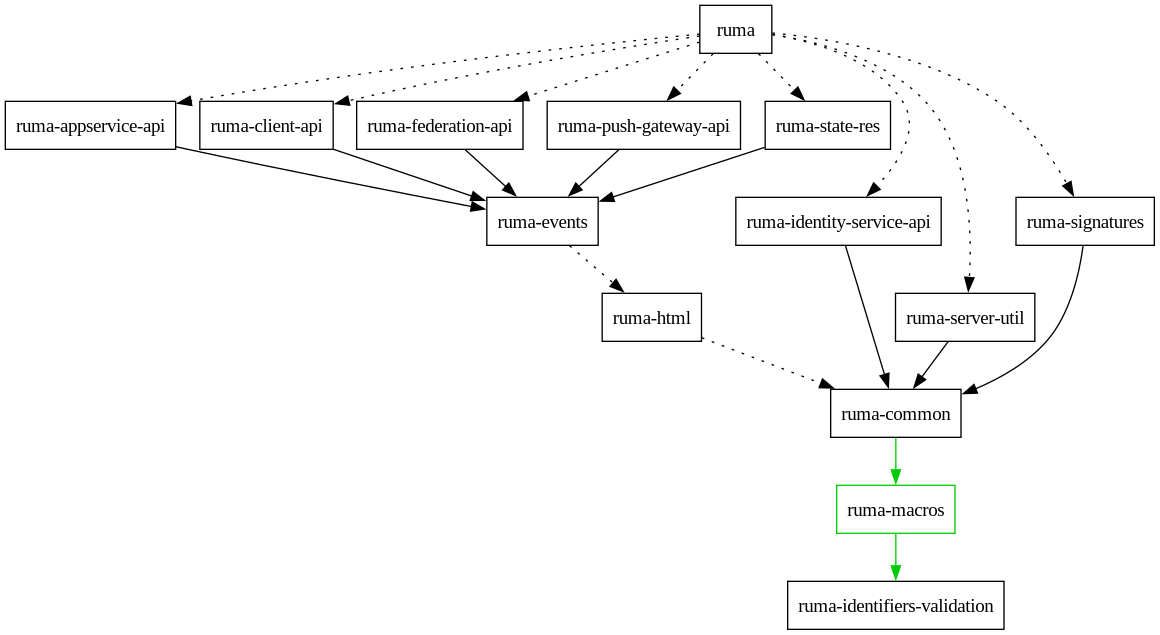
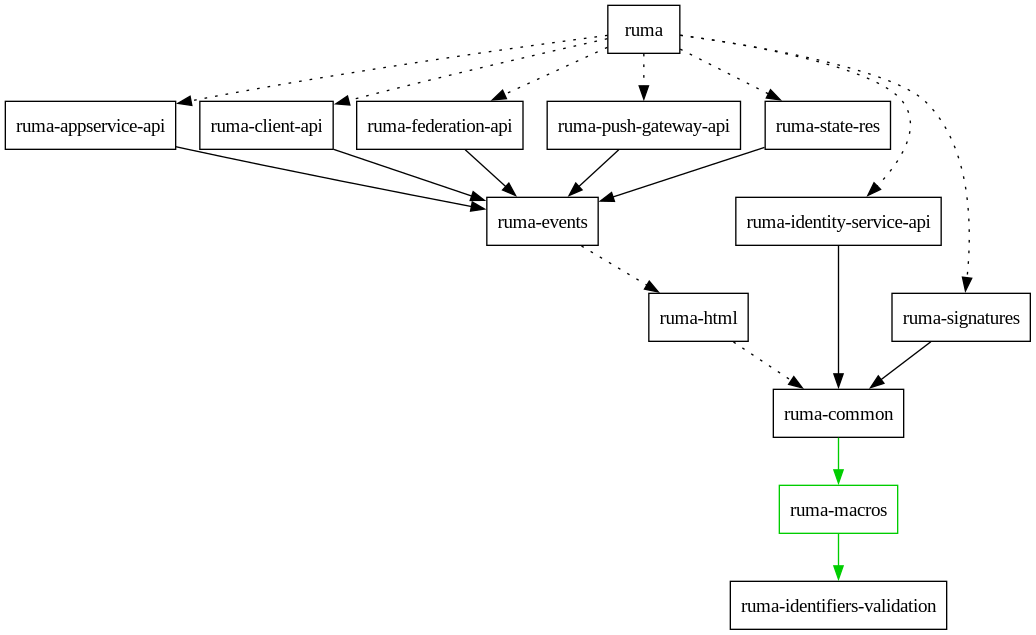
federation-api: Merge ruma-server-util into ruma-federation-api
XMatrix is available in the authentication module of
ruma-federation-api.

diff --git a/crates/ruma/src/lib.rs b/crates/ruma/src/lib.rs
@@ -89,9 +89,6 @@ pub use ruma_html as html;
 #[cfg(feature = "identifiers-validation")]
 #[doc(inline)]
 pub use ruma_identifiers_validation as identifiers_validation;
-#[cfg(feature = "server-util")]
-#[doc(inline)]
-pub use ruma_server_util as server_util;
 #[cfg(feature = "signatures")]
 #[doc(inline)]
 pub use ruma_signatures as signatures;

diff --git a/crates/ruma-federation-api/src/lib.rs b/crates/ruma-federation-api/src/lib.rs
@@ -13,6 +13,7 @@ use std::fmt;
 mod serde;
 
 pub mod authenticated_media;
+pub mod authentication;
 pub mod authorization;
 pub mod backfill;
 pub mod device;

diff --git a/crates/ruma-federation-api/CHANGELOG.md b/crates/ruma-federation-api/CHANGELOG.md
@@ -2,6 +2,32 @@
 
 Breaking changes:
 
+- Remove the `origin` field in `create_join_event::{v1/v2}::RoomState` due to a
+  clarification in the spec.
+
+Improvements:
+
+- The `unstable-unspecified` cargo feature was removed. The `pdus` field of
+  `send_transaction_message::v1::Request` is always serialized. To allow this
+  field to be missing during deserialization, use the `compat-optional-txn-pdus`
+  cargo feature.
+- ruma-server-util was merged into this crate. `XMatrix` is available in the
+  `authentication` module.
+
+# 0.11.0
+
+Improvements:
+
+- The `unstable-exhaustive-types` cargo feature was replaced by the
+  `ruma_unstable_exhaustive_types` compile-time `cfg` setting. Like all `cfg`
+  settings, it can be enabled at compile-time with the `RUSTFLAGS` environment
+  variable, or inside `.cargo/config.toml`. It can also be enabled by setting
+  the `RUMA_UNSTABLE_EXHAUSTIVE_TYPES` environment variable.
+
+# 0.10.0
+
+Breaking changes:
+
 - Remove the unused `KeyObject` struct. It is actually supposed to be the same type
   as `ruma_common::encryption::SignedKey`.
 - Use `OwnedOneTimeKeyId` and `OneTimeKeyAlgorithm` instead of

diff --git a/crates/ruma/CHANGELOG.md b/crates/ruma/CHANGELOG.md
@@ -5,6 +5,9 @@
 - The `unstable-unspecified` cargo feature was removed.
 - ruma-client is not reexported by ruma anymore, it lives as its own separate
   crate. All the corresponding features were removed.
+- ruma-server-util was merged into ruma-federation-api. The corresponding
+  feature was removed. `XMatrix` is available in the
+  `api::federation::authentication` module.
 - Bump MSRV to 1.81
 
 # 0.12.1
